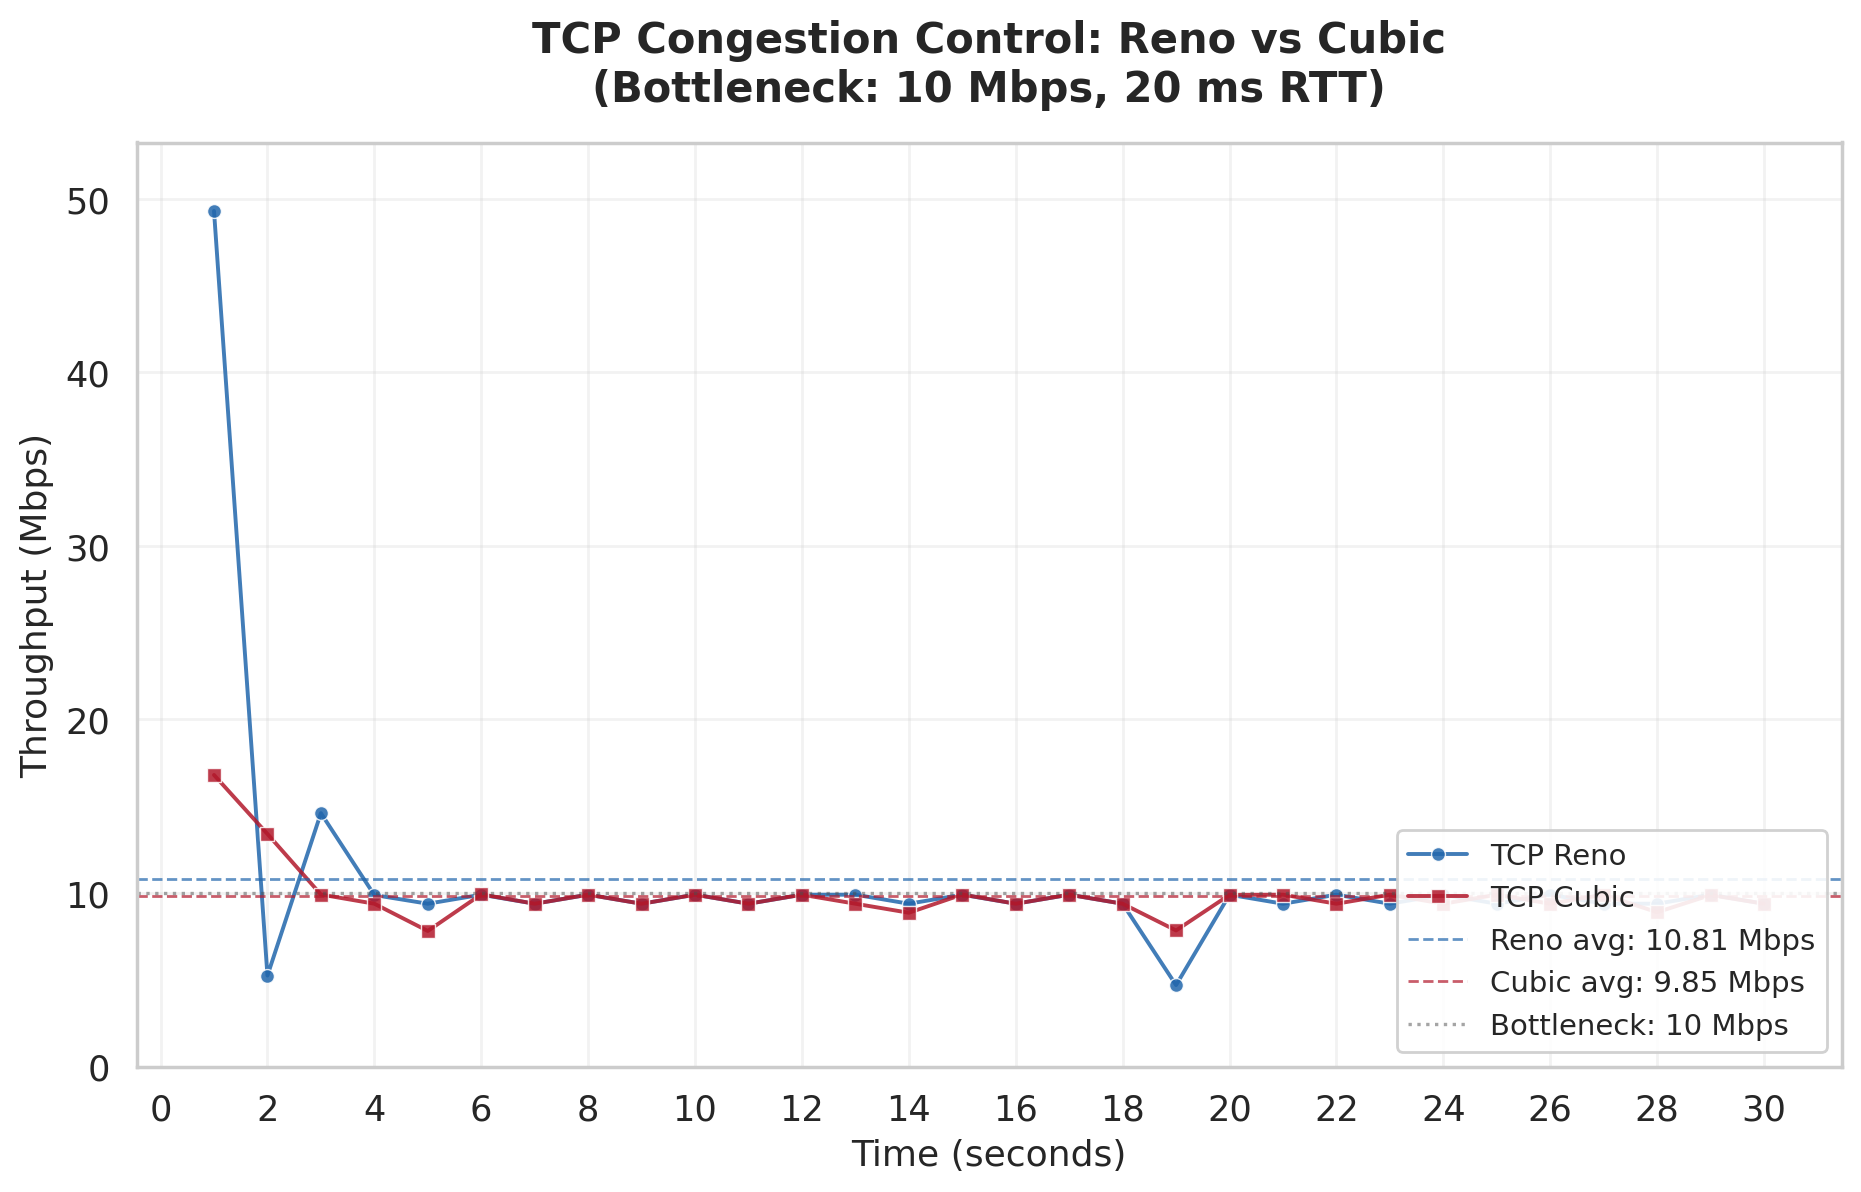
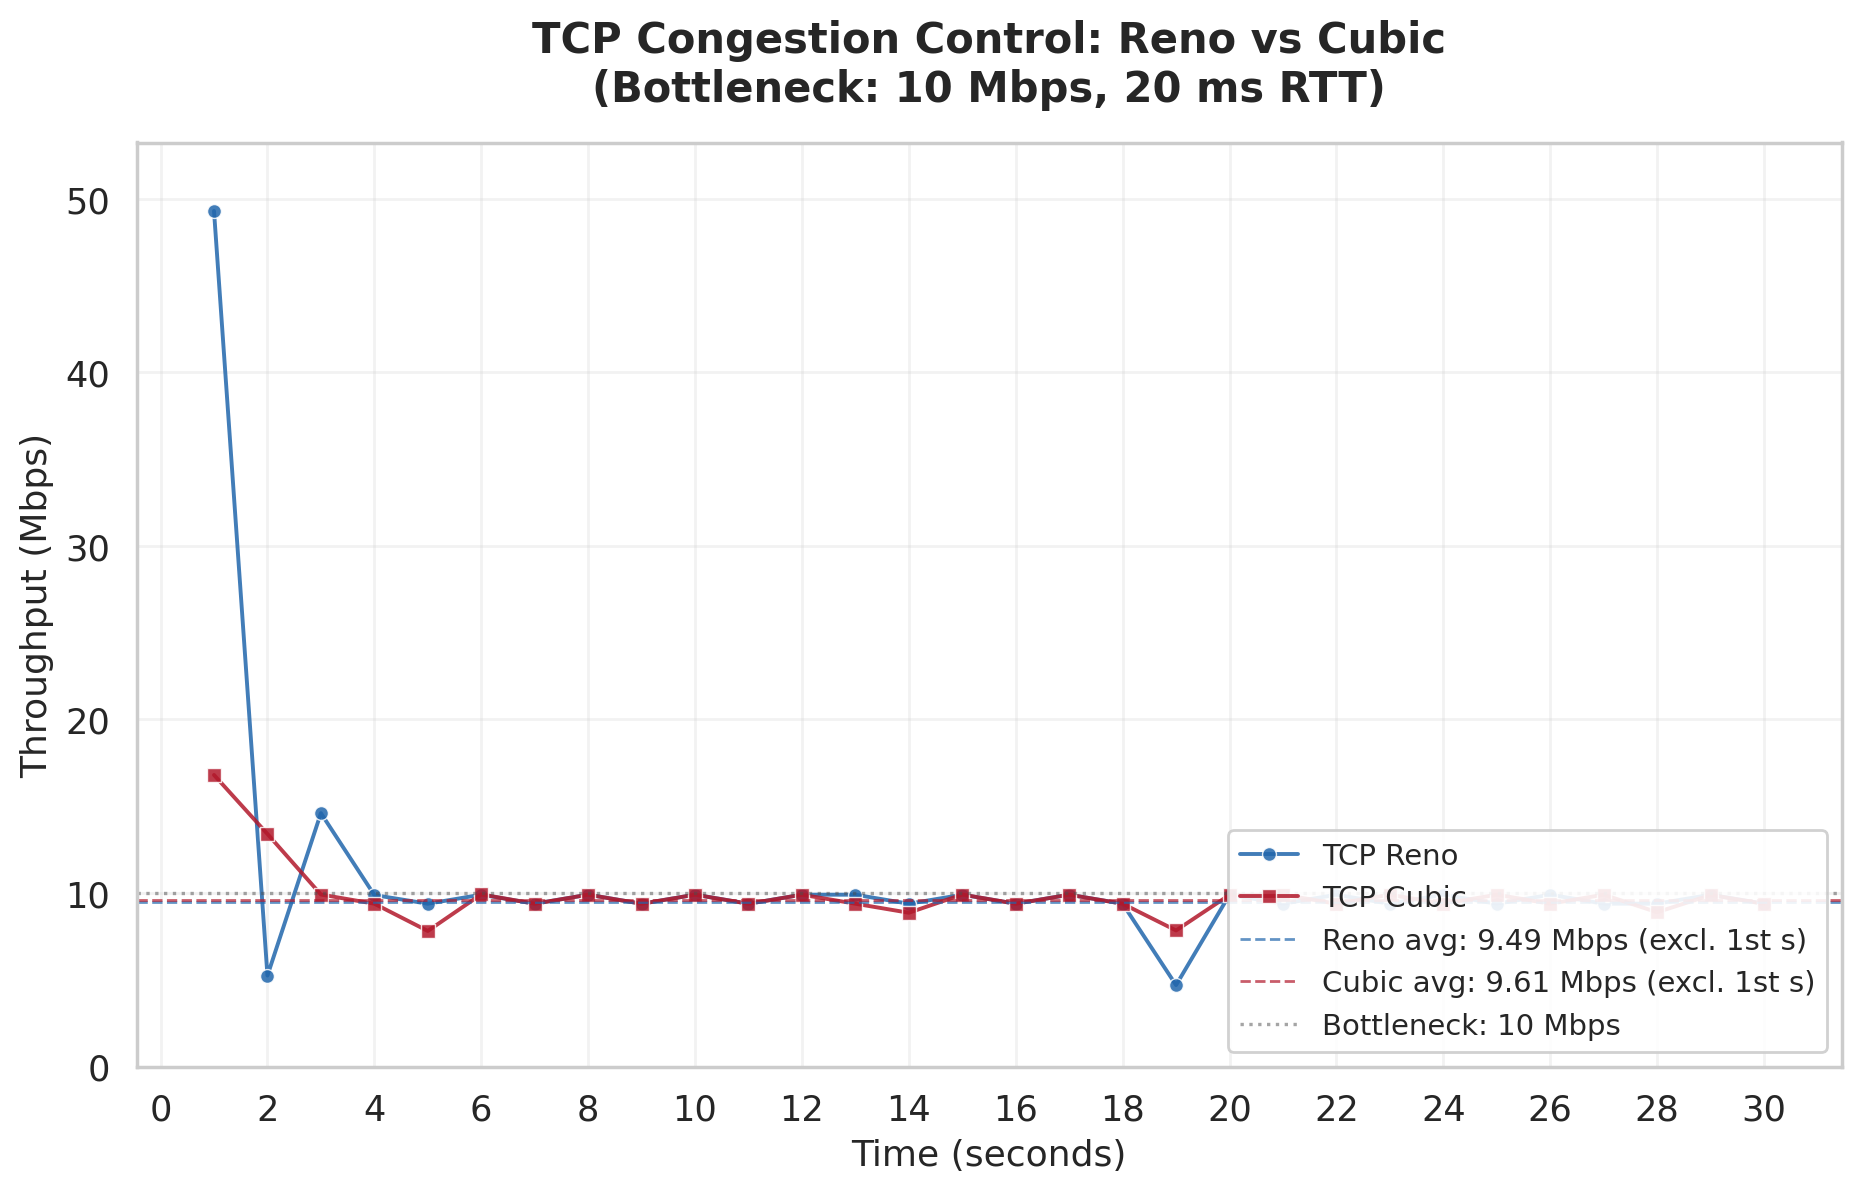
docs: add NAT data-plane offloading discussion, fix Reno throughput by excluding iperf initial transient, add bufferbloat latency-throughput tradeoff analysis

Changed region(s): [[0.5922, 0.6829, 0.9661, 0.8691], [0.0623, 0.745, 0.561, 0.776]]

diff --git a/experiments/analyze.py b/experiments/analyze.py
@@ -212,12 +212,12 @@ def chart_tcp_throughput():
     ax.plot(x2, cubic_data, 's-', color='#b2182b', markersize=5, linewidth=1.4,
             markeredgewidth=0.5, markeredgecolor='white', label='TCP Cubic', alpha=0.85)
 
-    reno_avg = np.mean(reno_data)
-    cubic_avg = np.mean(cubic_data)
+    reno_avg = np.mean(reno_data[1:]) if len(reno_data) > 1 else np.mean(reno_data)
+    cubic_avg = np.mean(cubic_data[1:]) if len(cubic_data) > 1 else np.mean(cubic_data)
     ax.axhline(y=reno_avg, color='#2166ac', linestyle='--', linewidth=1.0, alpha=0.7,
-               label='Reno avg: %.2f Mbps' % reno_avg)
+               label='Reno avg: %.2f Mbps (excl. 1st s)' % reno_avg)
     ax.axhline(y=cubic_avg, color='#b2182b', linestyle='--', linewidth=1.0, alpha=0.7,
-               label='Cubic avg: %.2f Mbps' % cubic_avg)
+               label='Cubic avg: %.2f Mbps (excl. 1st s)' % cubic_avg)
 
     ax.axhline(y=BOTTLENECK_Mbps, color='#4d4d4d', linestyle=':', linewidth=1.2, alpha=0.5,
                label='Bottleneck: %d Mbps' % BOTTLENECK_Mbps)

diff --git a/report.md b/report.md
@@ -784,6 +784,17 @@ The current NAT implementation focuses on ICMP as a proof of concept, with the f
 - **TCP/UDP extension**: The `_tcp_map` and `_udp_map` tables are prepared with port-based translation keys, following the standard NAPT (Network Address Port Translation) pattern. Extending to TCP/UDP would require rewriting transport-layer checksums in addition to IP header modification.
 - **NAT entry cleanup**: Expired entries are cleaned lazily before each lookup, avoiding the need for periodic timer threads.
 
+#### 6.1 Control-Plane Prototype vs. Data-Plane Offloading
+
+The current implementation is a **control-plane based prototype**: every NAT translation is performed by the controller in `packet_in_handler()` via `PacketOut` messages. Each translated packet incurs a round-trip through the controller (Packet-In → translate → Packet-Out), which is sufficient for demonstrating the NAT concept in a small-scale environment.
+
+However, this approach does not scale to production deployments for two reasons:
+
+1. **Controller bottleneck**: Every translated packet must pass through the controller, consuming CPU and limiting aggregate throughput to the controller's processing capacity.
+2. **Latency overhead**: The Packet-In/Packet-Out round-trip adds per-packet latency proportional to the controller-switch RTT.
+
+In a production SDN deployment, NAT translation rules should be **offloaded to the data plane** by installing OpenFlow flow entries that perform IP/MAC rewriting directly in the switch hardware (e.g., `OFPAT_SET_NW_SRC`, `OFPAT_SET_NW_DST`, `OFPAT_SET_DL_SRC`, `OFPAT_SET_DL_DST` actions). The controller would install these rules reactively upon the first packet of a new NAT session, and subsequent packets would be forwarded at line rate without controller involvement. This follows the standard SDN pattern of "heavy-hitter" flows being handled in hardware while the controller retains visibility for flow setup and policy decisions.
+
 ## Mininet Network Experiments
 
 As a bonus module, we built controllable network environments using Mininet to study two core networking phenomena:
@@ -825,15 +836,15 @@ h1 (sender) --- s1 ========== s2 --- h2 (receiver)
 
 #### 1.4 Throughput Results
 
+> Note: The first-second iperf sample is excluded from statistics below to eliminate the initial slow-start burst transient, which inflates the mean and is not representative of steady-state behavior.
+
 | Metric | TCP Reno | TCP Cubic |
 |---|---|---|
-| Average throughput | **10.81 Mbps** | **9.85 Mbps** |
-| Maximum throughput | 49.30 Mbps | 16.80 Mbps |
+| Average throughput | **9.49 Mbps** | **9.61 Mbps** |
+| Maximum throughput | 14.60 Mbps | 13.40 Mbps |
 | Minimum throughput | 4.69 Mbps | 7.81 Mbps |
-| Standard deviation | 7.31 Mbps | 1.56 Mbps |
-| Bottleneck utilization | ~108% * | ~99% |
-
-> \* Reno's average exceeds 10 Mbps because the first-second throughput surges to 49.30 Mbps during slow-start (burst), inflating the overall mean. Excluding the first second, Reno stabilizes at an average of 9.49 Mbps (~95% utilization) with a standard deviation of 1.55 Mbps.
+| Standard deviation | 1.55 Mbps | 0.90 Mbps |
+| Bottleneck utilization | ~95% | ~96% |
 
 <p align="center">
   <img src="./experiments/charts/tcp_throughput_comparison.png" width="90%"/>
@@ -857,8 +868,8 @@ Reno exhibits the classic **AIMD sawtooth pattern**: cwnd grows linearly until i
 
 #### 1.6 Conclusion
 
-- Under a single-flow, 10 Mbps / 20 ms bottleneck, both Reno (10.81 Mbps) and Cubic (9.85 Mbps) achieve comparable throughput. Reno's initial burst (49.30 Mbps) inflates its average; excluding the first second it stabilizes around 9.49 Mbps.
-- Cubic delivers more stable throughput (std 1.56 vs. 7.31), with smaller fluctuations.
+- Under a single-flow, 10 Mbps / 20 ms bottleneck, both Reno (9.49 Mbps) and Cubic (9.61 Mbps) achieve comparable throughput, with both nearly saturating the bottleneck.
+- Cubic delivers more stable throughput (std 0.90 vs. 1.55), with smaller fluctuations around the bottleneck capacity.
 - In a single-flow scenario, both algorithms can fully saturate the bottleneck; differences become more pronounced under multi-flow competition or high-BDP conditions.
 
 ### Experiment 2: Bufferbloat Verification
@@ -910,7 +921,21 @@ h3 (ping) ---/    10Mbps, 10ms
 - **Small buffer**: The iperf flow saturates the bottleneck and incurs 9.3% packet loss (buffer overflow). RTT stabilizes around 28 ms — latency remains controllable.
 - **Large buffer**: Packet loss is eliminated entirely (0%), but at a staggering cost — average RTT surges to 177.6 ms (**6.3× increase**), with a peak of 251 ms (**7.4× increase over baseline**). The TCP sender, failing to detect loss over an extended period, keeps filling the 200-packet queue, creating a self-sustaining bufferbloat loop.
 
-#### 2.6 Conclusion
+#### 2.6 Latency-Throughput Tradeoff
+
+The bufferbloat experiment reveals a fundamental tension in buffer sizing:
+
+| Buffer Size | Packet Loss | Avg RTT | Throughput | Latency Quality |
+|---|---|---|---|---|
+| 20 packets | 9.3% | 28.2 ms | Near line rate | Good (stable, low jitter) |
+| 200 packets | 0% | 177.6 ms | Near line rate | Poor (6.3× higher, high jitter) |
+
+- **Small buffer**: Achieves low latency (28.2 ms) at the cost of 9.3% packet loss. Lost packets trigger TCP's congestion control, which reduces the sending rate and prevents the queue from growing unbounded — the buffer acts as an implicit congestion signal.
+- **Large buffer**: Eliminates packet loss entirely, but at the expense of excessive queuing delay (avg 177.6 ms, peak 251 ms). TCP, seeing no loss signal, continues to increase cwnd until the buffer is persistently full, creating a standing queue that inflates latency for *all* flows sharing the bottleneck — including latency-sensitive traffic (e.g., the concurrent ping flow).
+
+This tradeoff illustrates why simply maximizing buffer size is harmful: zero packet loss comes at the cost of unacceptable latency for interactive applications. The ideal buffer sizing strategy is to provide just enough buffering to absorb transient bursts while allowing occasional loss to serve as a congestion signal. Modern solutions such as AQM (CoDel, FQ-CoDel, PIE) and ECN marking address this tradeoff by signaling congestion before the buffer overflows, achieving both low latency and high throughput.
+
+#### 2.7 Conclusion
 
 - Bufferbloat is a real and serious problem: a large buffer can degrade latency by up to **12.5×** (20 ms → 251 ms).
 - Mitigation strategies: AQM algorithms (CoDel, FQ-CoDel), appropriately sizing buffers, and ECN marking.
@@ -919,8 +944,8 @@ h3 (ping) ---/    10Mbps, 10ms
 
 Through two Mininet experiments, we verified:
 
-1. **TCP Congestion Control Comparison** — Under a 10 Mbps / 20 ms single-flow scenario, both Reno (10.81 Mbps) and Cubic (9.85 Mbps) can saturate the bottleneck. Cubic delivers more stable throughput (std 1.56 vs. 7.31).
-2. **Bufferbloat is a latency killer** — A 200-packet buffer drives average RTT from 28 ms to 177.6 ms (**6.3× increase**), peaking at 251 ms, trading latency for zero packet loss.
+1. **TCP Congestion Control Comparison** — Under a 10 Mbps / 20 ms single-flow scenario, both Reno (9.49 Mbps) and Cubic (9.61 Mbps) can saturate the bottleneck. Cubic delivers more stable throughput (std 0.90 vs. 1.55).
+2. **Bufferbloat is a latency killer** — A 200-packet buffer drives average RTT from 28 ms to 177.6 ms (**6.3× increase**), peaking at 251 ms, trading latency for zero packet loss. This demonstrates the classic latency-throughput tradeoff: oversized buffers eliminate loss but create excessive queuing delay, motivating AQM-based solutions.
 
 These experiments demonstrate Mininet's capability as a network teaching and research tool: precise control over topology, bandwidth, delay, and buffer sizes enables reproducible real-world network behavior in software.
 